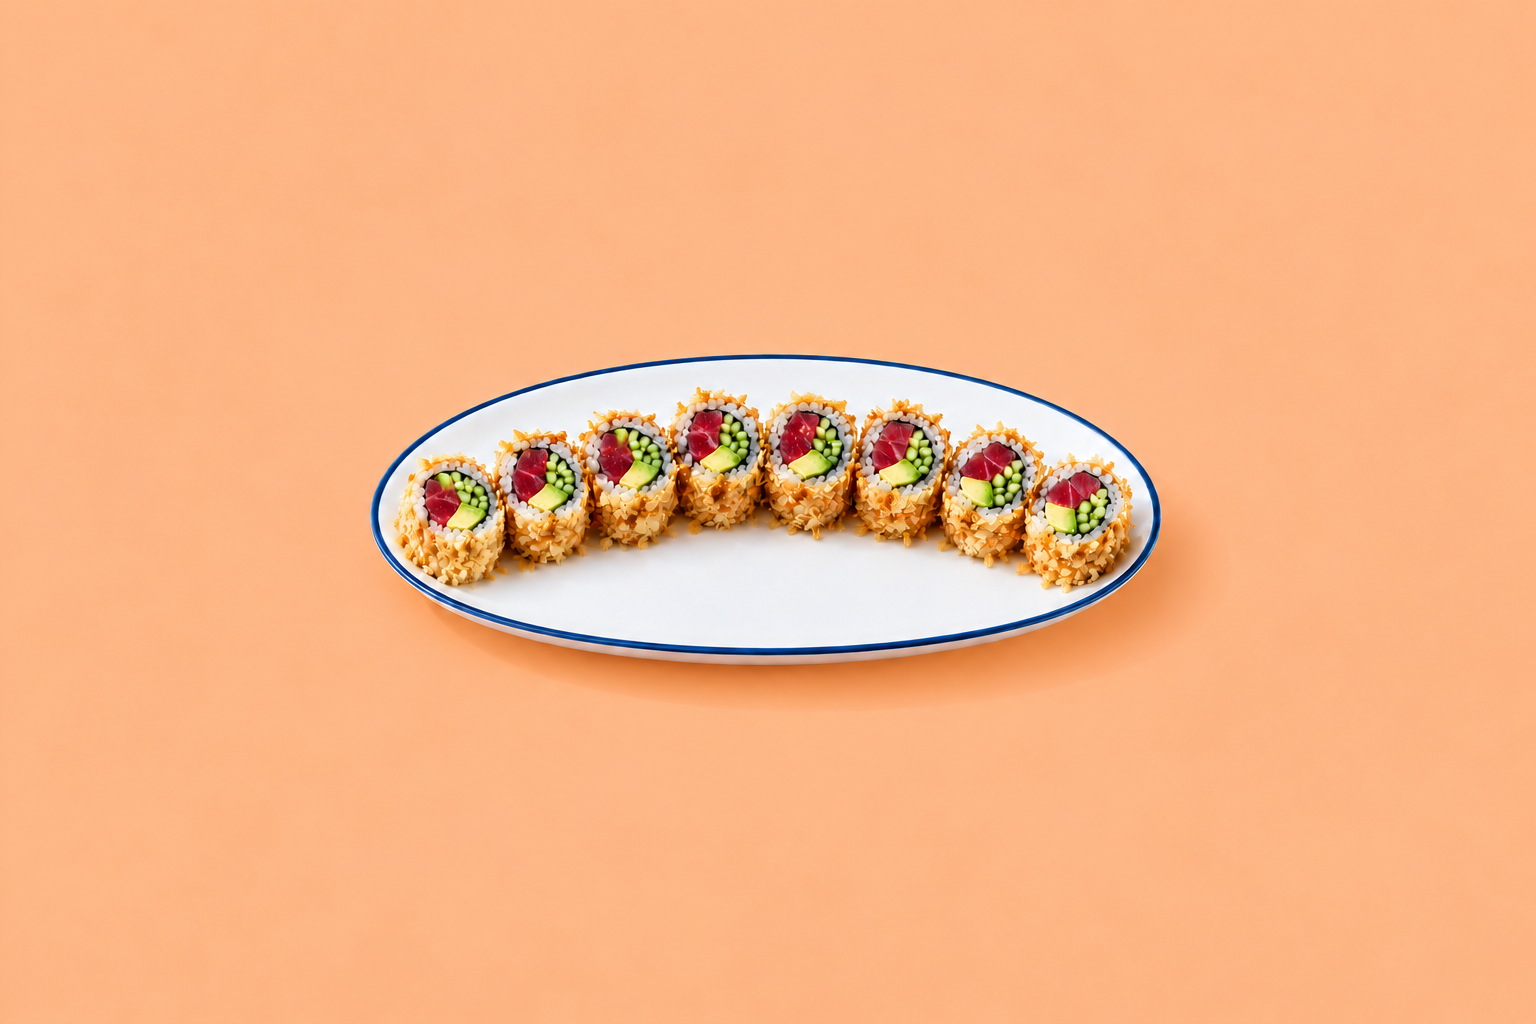
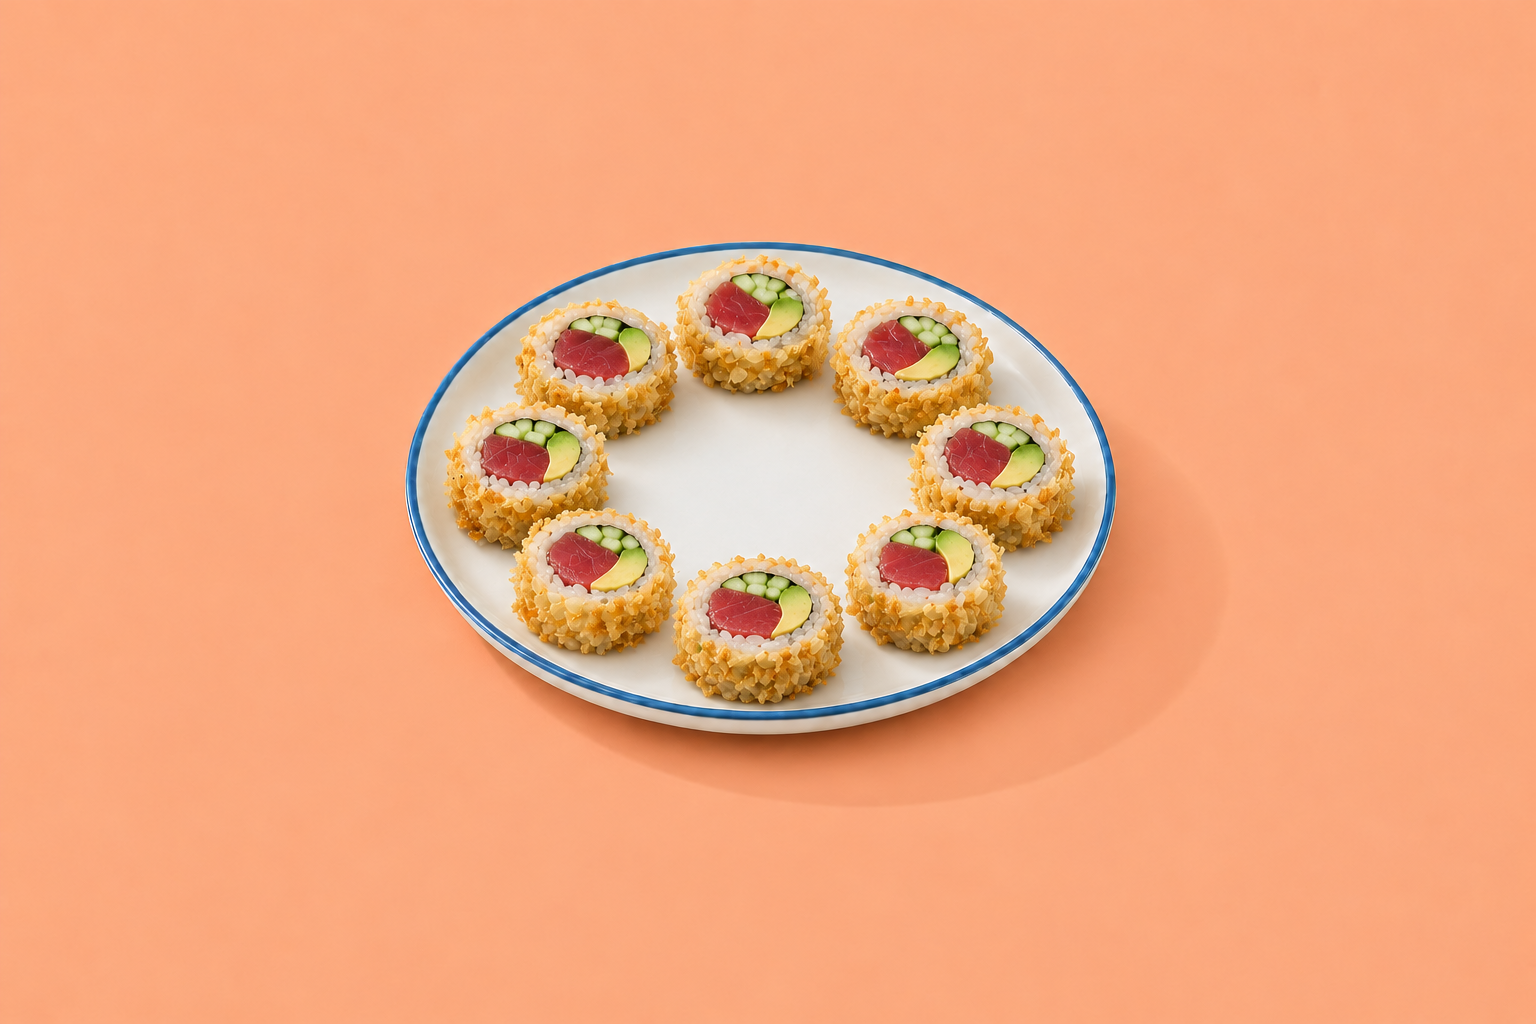
docs: replace batch 09 crunch roll candidate and preserve redo QA evidence

Changed region(s): [[0.2188, 0.2188, 0.7812, 0.7812]]

diff --git a/docs/image-tests/batch-09-redos/source.md b/docs/image-tests/batch-09-redos/source.md
@@ -1,0 +1,14 @@
+# Mise image prompts, batch 9 redo (1 recipe)
+
+Batch 9 is checked and 48 of 49 images pass. One needs remaking: the New York Crunch Roll's long oval platter loses about 13px of rim on the left and 8px on the right in the phone card crop, and the single row makes the dish read small. This redo moves the eight pieces onto the round house plate in a loose ring.
+
+Save the remake on its own branch, images/mise-batch-09-redos-YYYY-MM-DD (today's date), with the same filename, then carry on with batch 10.
+
+```text
+Shared style, for every image:
+Bright, true-to-life cookbook photograph. Camera at about 40 degrees, 50mm lens, the whole dish in sharp focus. Soft, even daylight from the upper left, with one short soft shadow to the lower right. Background: a smooth, matte, seamless surface and wall in the backdrop color given for the image, one flat color edge to edge, evenly lit, with no vignette, no gradient, no darker corners and no horizon line. No props: only the dish on the backdrop. Keep any accent color to slate blue (#486B7B) or apricot (#F59443), used on one small thing only. Framing: the dish sits dead centre, left to right and top to bottom, and is about half the frame width, so a tall, narrow crop of the middle half still shows all of it. A tall glass uses height instead, about three quarters of the frame height. Landscape 3:2, 1536 x 1024. Style reference: match the attached reference image for light, white balance, camera height, scale and how flat the backdrop is; change only the dish and the backdrop color, and leave out its props. Fresh, lively and appetizing, natural color, bright and airy. Avoid: steam, smoke or vapour of any kind, text, logos, hands, people, dark or moody light, wooden tables, marble, patterned surfaces, props, cutlery, napkins, garnishes not listed for the dish, cartoon or illustration style, plastic-looking food, exaggerated saturation.
+
+1. new-york-crunch-roll.png
+Dish: New York Crunch Roll (tuna and avocado sushi roll). The dish: eight sushi roll pieces arranged in a loose ring, cut side up, showing rice around red tuna, green avocado and cucumber, the outside coated in crisp golden tempura flakes. Show the cut rounds showing the bright filling and golden crunch. Texture: crunchy flakes, soft rice, silky tuna and avocado. Colors: golden tempura crumbs, white rice, ruby tuna, green avocado. Serving dish: a round white plate with a thin slate blue rim, the same plate used for the other dishes. No garnish. Setting: a sushi night at home. Backdrop: soft peach (#FFB07E). Moment: just rolled and sliced. Framing: the round plate is about 45% of the frame width, centered, with clear backdrop on both sides; the whole rim must sit well inside the middle half of the frame. Do not use a long oval platter or a single row, since that is what pushed the rim past the phone crop.
+```
+

diff --git a/docs/image-tests/batch-09/README.md b/docs/image-tests/batch-09/README.md
@@ -23,3 +23,7 @@ The original [margarita reference](https://github.com/jsilton/mise/blob/images/m
 133 calls for 49 selected finals (84 remakes), across three concurrent groups of 40, 49 and 44 calls. Production and coordinator review ran approximately 12:58–13:45 UTC on 2026-11-02: about 47 wall minutes including tool waits, no intentional pause. A transient worker-capacity notification was resumed without duplicate work. Packaging, Library and remote Git saving are separate stages, not implementation or publication.
 
 Exact prompts, source and generation provenance, hashes and QA are included. Six `review/` sheets show full frames and actual middle-half crops for entries 1–17, 18–33 and 34–49. Root independently reviewed all six sheets at approximately 13:50 UTC and approved saving these review candidates with all four flags retained. This is not user acceptance or a strict all-pass result. Final packaging and independent review added approximately five minutes after production; Library and Git persistence follow separately.
+
+## Current crunch-roll replacement review — 2026-11-02
+
+This redo branch replaces only new-york-crunch-roll.png. See [redo review](../batch-09-redos/README.md) and [replacement hashes and QA](../batch-09-redos/qa-manifest.json). Eight pieces form a loose ring on a round plate and fit the central-half crop. The other 48 images are unchanged. Original batch sheets and root QA manifest are historical evidence for the original roll image, not current replacement hashes/results. Review-branch saving is not site application.

diff --git a/docs/image-tests/batch-09-redos/README.md b/docs/image-tests/batch-09-redos/README.md
@@ -1,0 +1,9 @@
+# Mise batch 09 redo — New York Crunch Roll
+
+One review replacement: eight tempura-coated tuna, avocado and cucumber sushi pieces in a loose ring on a round white slate-rim plate, not the original clipped single-row platter. Full and central-half crop reviewed; all pieces and complete rim fit. No material flags identified; generated color and soft-shadow approximations remain.
+
+Source: [batch-09-redo.md](https://github.com/jsilton/mise/blob/77a80c9ea6bccf795fcee557367b75c6437a013c/docs/image-prompts/batch-09-redo.md), blob `41784ecb0fee3eb2cee09ad74929cce3f0807447`.
+
+Two built-in generation calls, one targeted correction from seven to eight pieces. Original margarita reference attached both times, with an accepted composition reference for scale. Final 1536×1024 PNG is unchanged generated bytes; review crops are derived. Production and coordinator QA approximately 22:20–22:23 UTC on 2026-11-02, including tool wait.
+
+Save only on the new review branch; preserve earlier history. No merge, deployment, PR or recipe mapping. Root independently reviewed full frame and crop at approximately 22:24 UTC and approved saving the review replacement. Review QA is not user acceptance.
